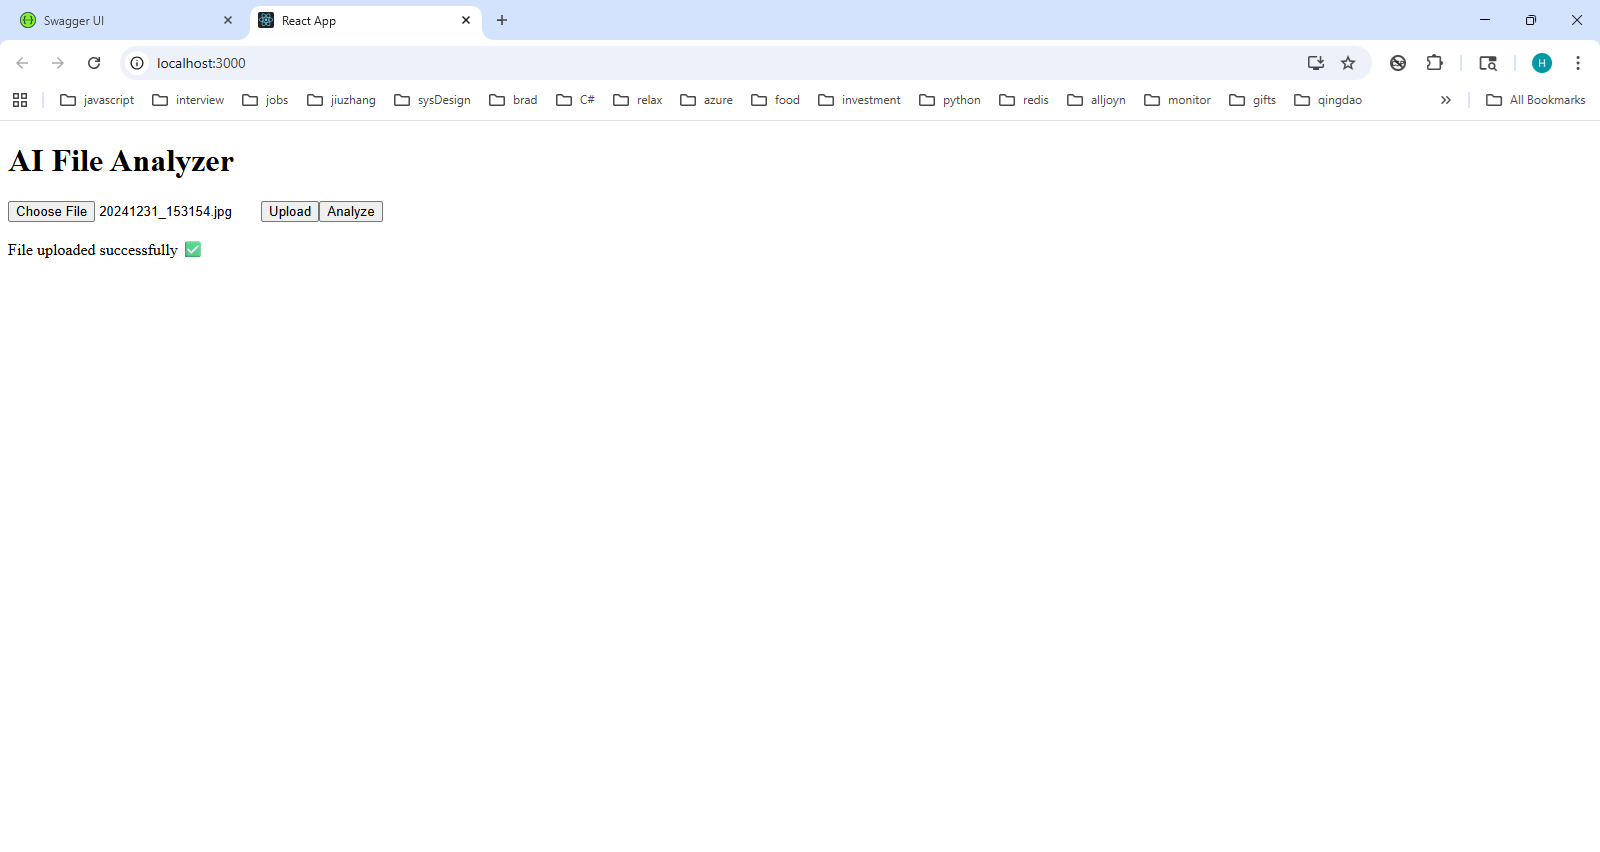
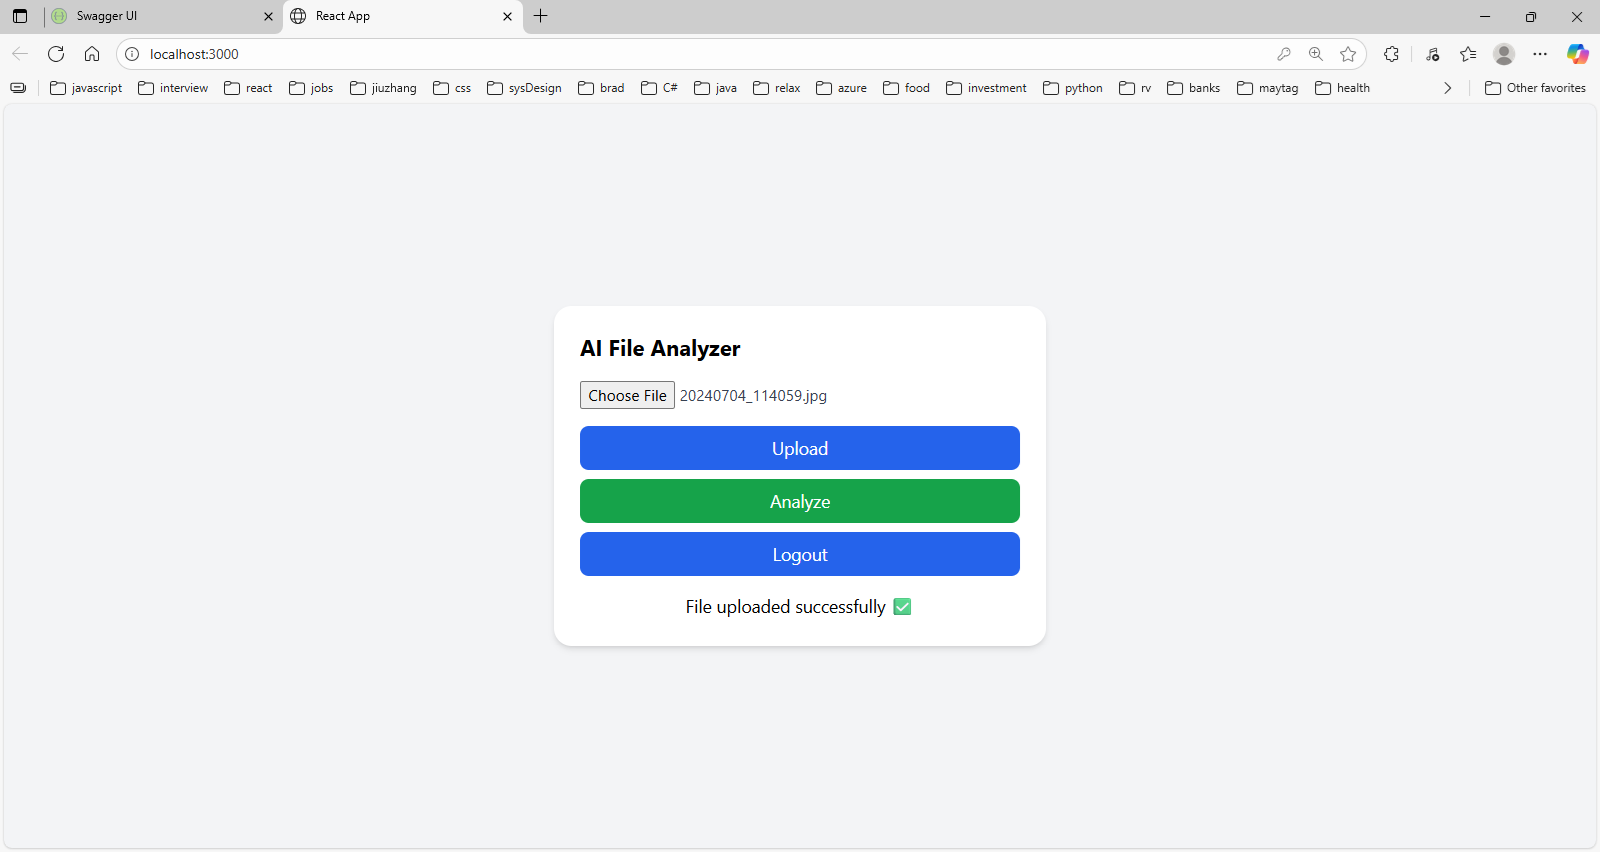
docs: update documentation and screenshots for AI voice narration feature

diff --git a/README.md b/README.md
@@ -1,8 +1,8 @@
 #  AWS File Analyzer
-Imagine your desktop stored many old photos or text files, you forget where photos were taken, or what is the summary for text file. You want to upload these files to AWS S3, then use OpenAI api to analyze.
+Imagine your desktop stored many old photos or text files, you forget where photos were taken, or what is the summary for text file. You want to upload these files to AWS S3, then use OpenAI api to analyze, display analysis result in structured format, then play audio summary.
 
 A full-stack project with .NET 8 API + React UI.  
-Uploads local files to AWS S3, save file meta inforamtion into Azure SQL db, generate a presigned url and analyzes url with OpenAI API.
+Login, uploads local files to AWS S3, save file meta inforamtion into Azure SQL db, generate a presigned url and analyzes url with OpenAI API.
 
 ## 🚀 Demo Screenshots
 
@@ -18,7 +18,8 @@ Uploads local files to AWS S3, save file meta inforamtion into Azure SQL db, gen
 - Backend: .NET 8 Web API (C#), EF Core
 - Frontend: React + Axios
 - Cloud: AWS S3, Azure SQL Db
-- OpenAI API
+- OpenAI: API
+- Authentication: Jwt token
 
 ## 📦 How to Run Locally
 ### Backend
@@ -41,5 +42,5 @@ npm start
 ## Future Plan 
 
 Deploy backend service to AWS
-Save analysis result to Azure SQL Db
+Photo Ablum based on analysis result
 More file type support (etc. PDF/audio/video)
